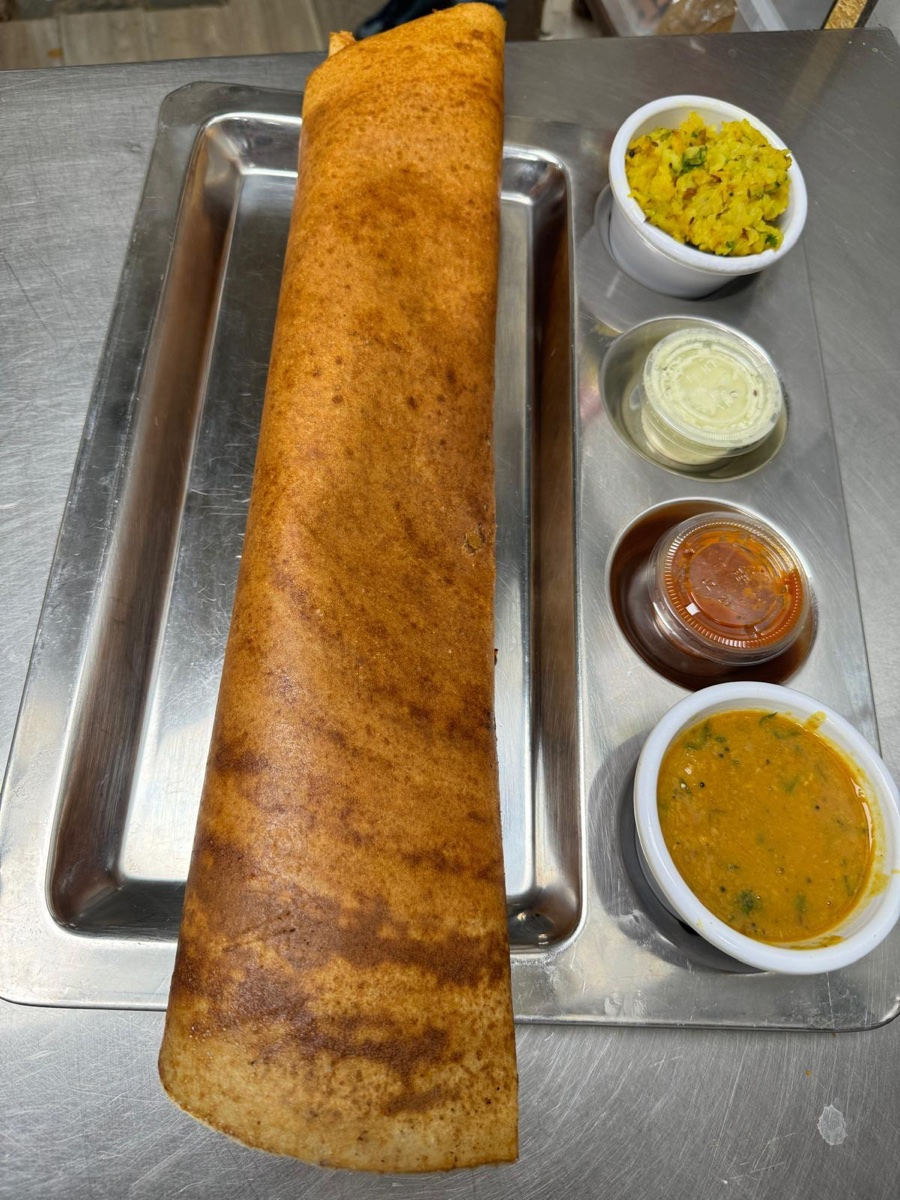
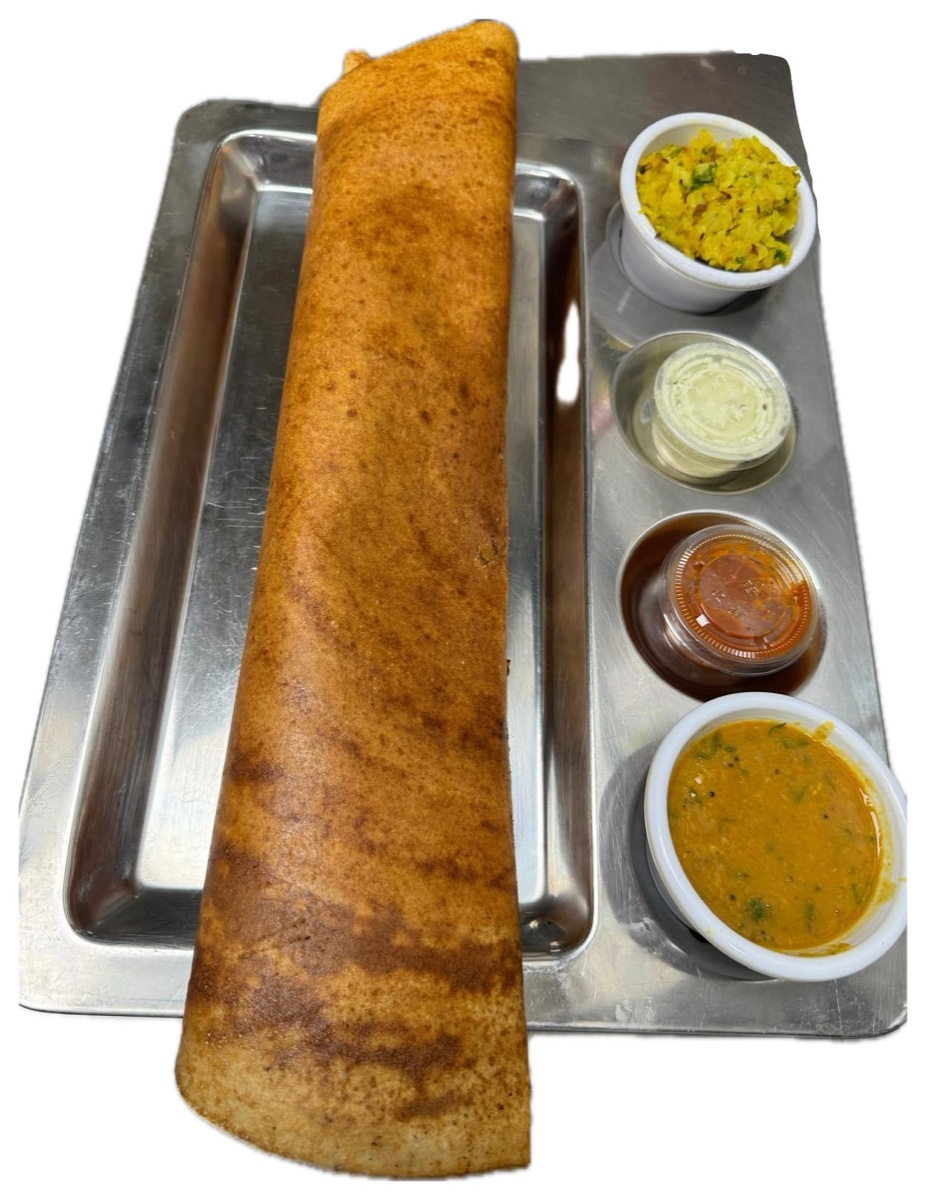
Replace dosa and chilli shrimp photos

diff --git a/CityOfSpice/sw.js b/CityOfSpice/sw.js
@@ -1,4 +1,4 @@
-const CACHE='city-of-spice-menu-v13';const CORE=['./','./index.html','./styles.css','./data.js','./app.js','./manifest.webmanifest','./city-of-spice-logo.jpg','./halal-badge.png','./icon.png','./icon-512.png'];
+const CACHE='city-of-spice-menu-v14';const CORE=['./','./index.html','./styles.css','./data.js','./app.js','./manifest.webmanifest','./city-of-spice-logo.jpg','./halal-badge.png','./icon.png','./icon-512.png'];
 self.addEventListener('install',e=>{e.waitUntil(caches.open(CACHE).then(c=>c.addAll(CORE)).then(()=>self.skipWaiting()))});
 self.addEventListener('activate',e=>{e.waitUntil(caches.keys().then(keys=>Promise.all(keys.filter(k=>k!==CACHE).map(k=>caches.delete(k)))).then(()=>self.clients.claim()))});
 self.addEventListener('fetch',e=>{if(e.request.method!=='GET'||new URL(e.request.url).origin!==self.location.origin)return;e.respondWith(caches.match(e.request).then(cached=>cached||fetch(e.request).then(response=>{if(response.ok){const copy=response.clone();caches.open(CACHE).then(c=>c.put(e.request,copy))}return response})).catch(()=>caches.match('./index.html')))});
